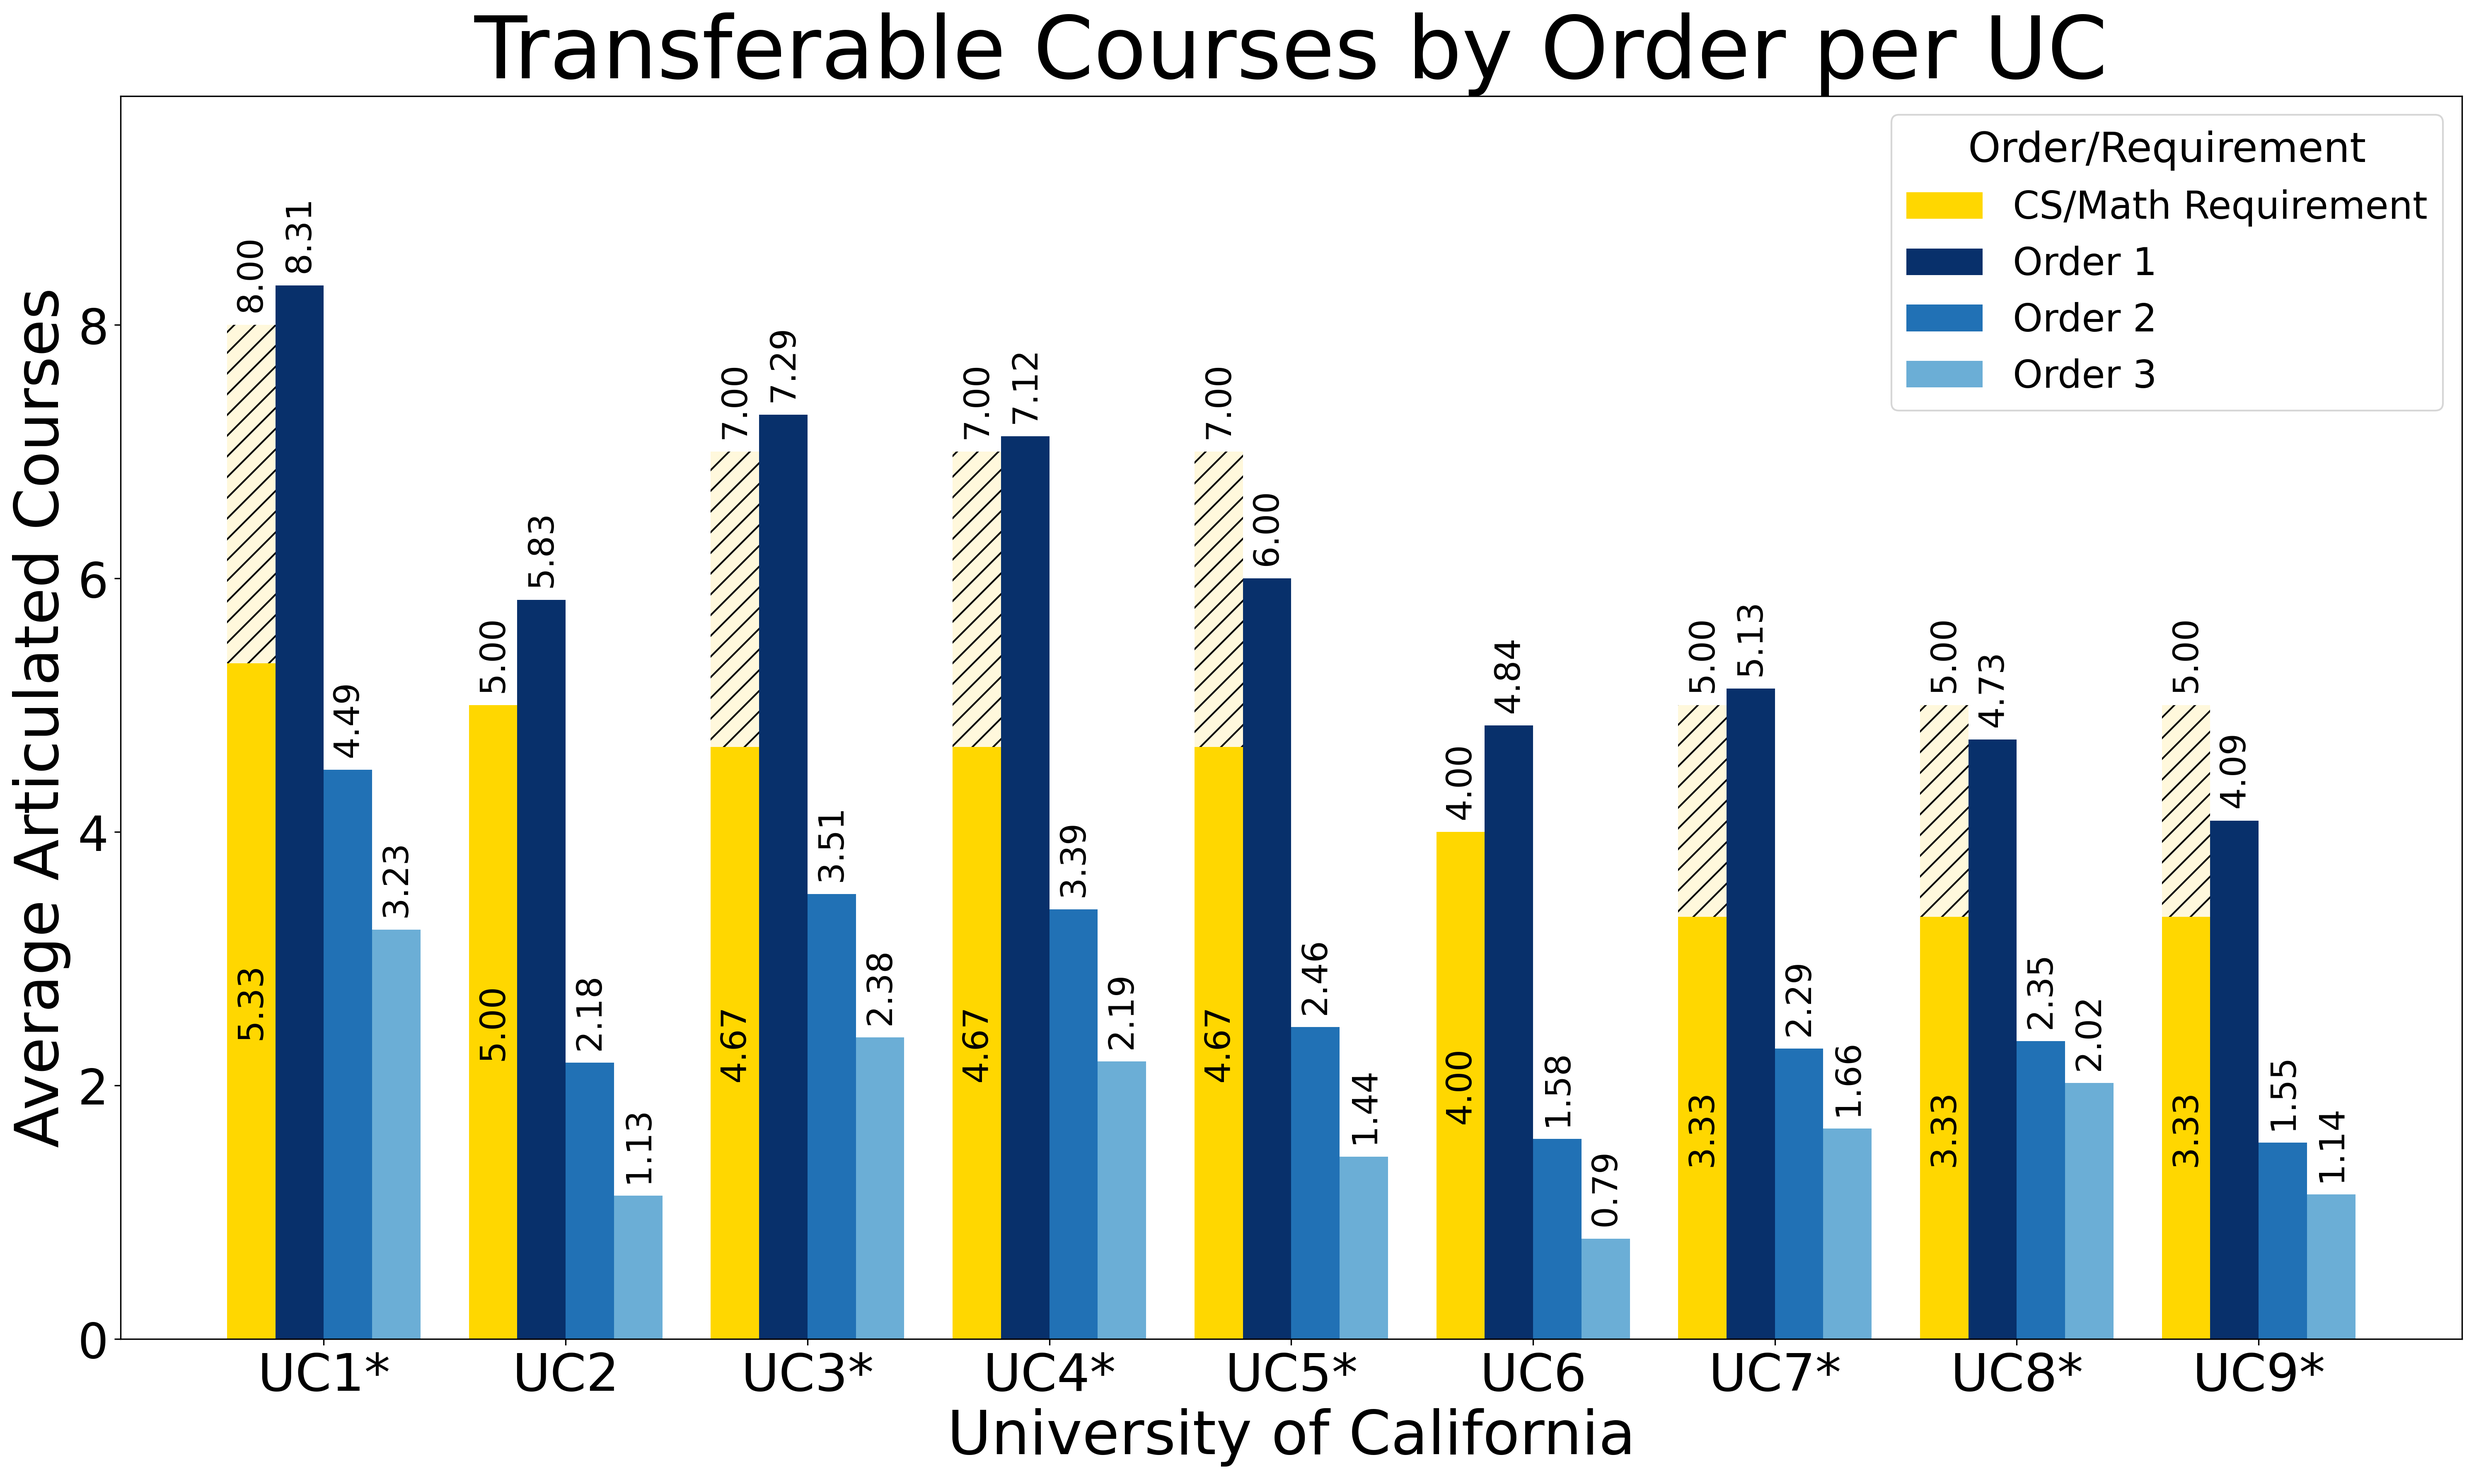
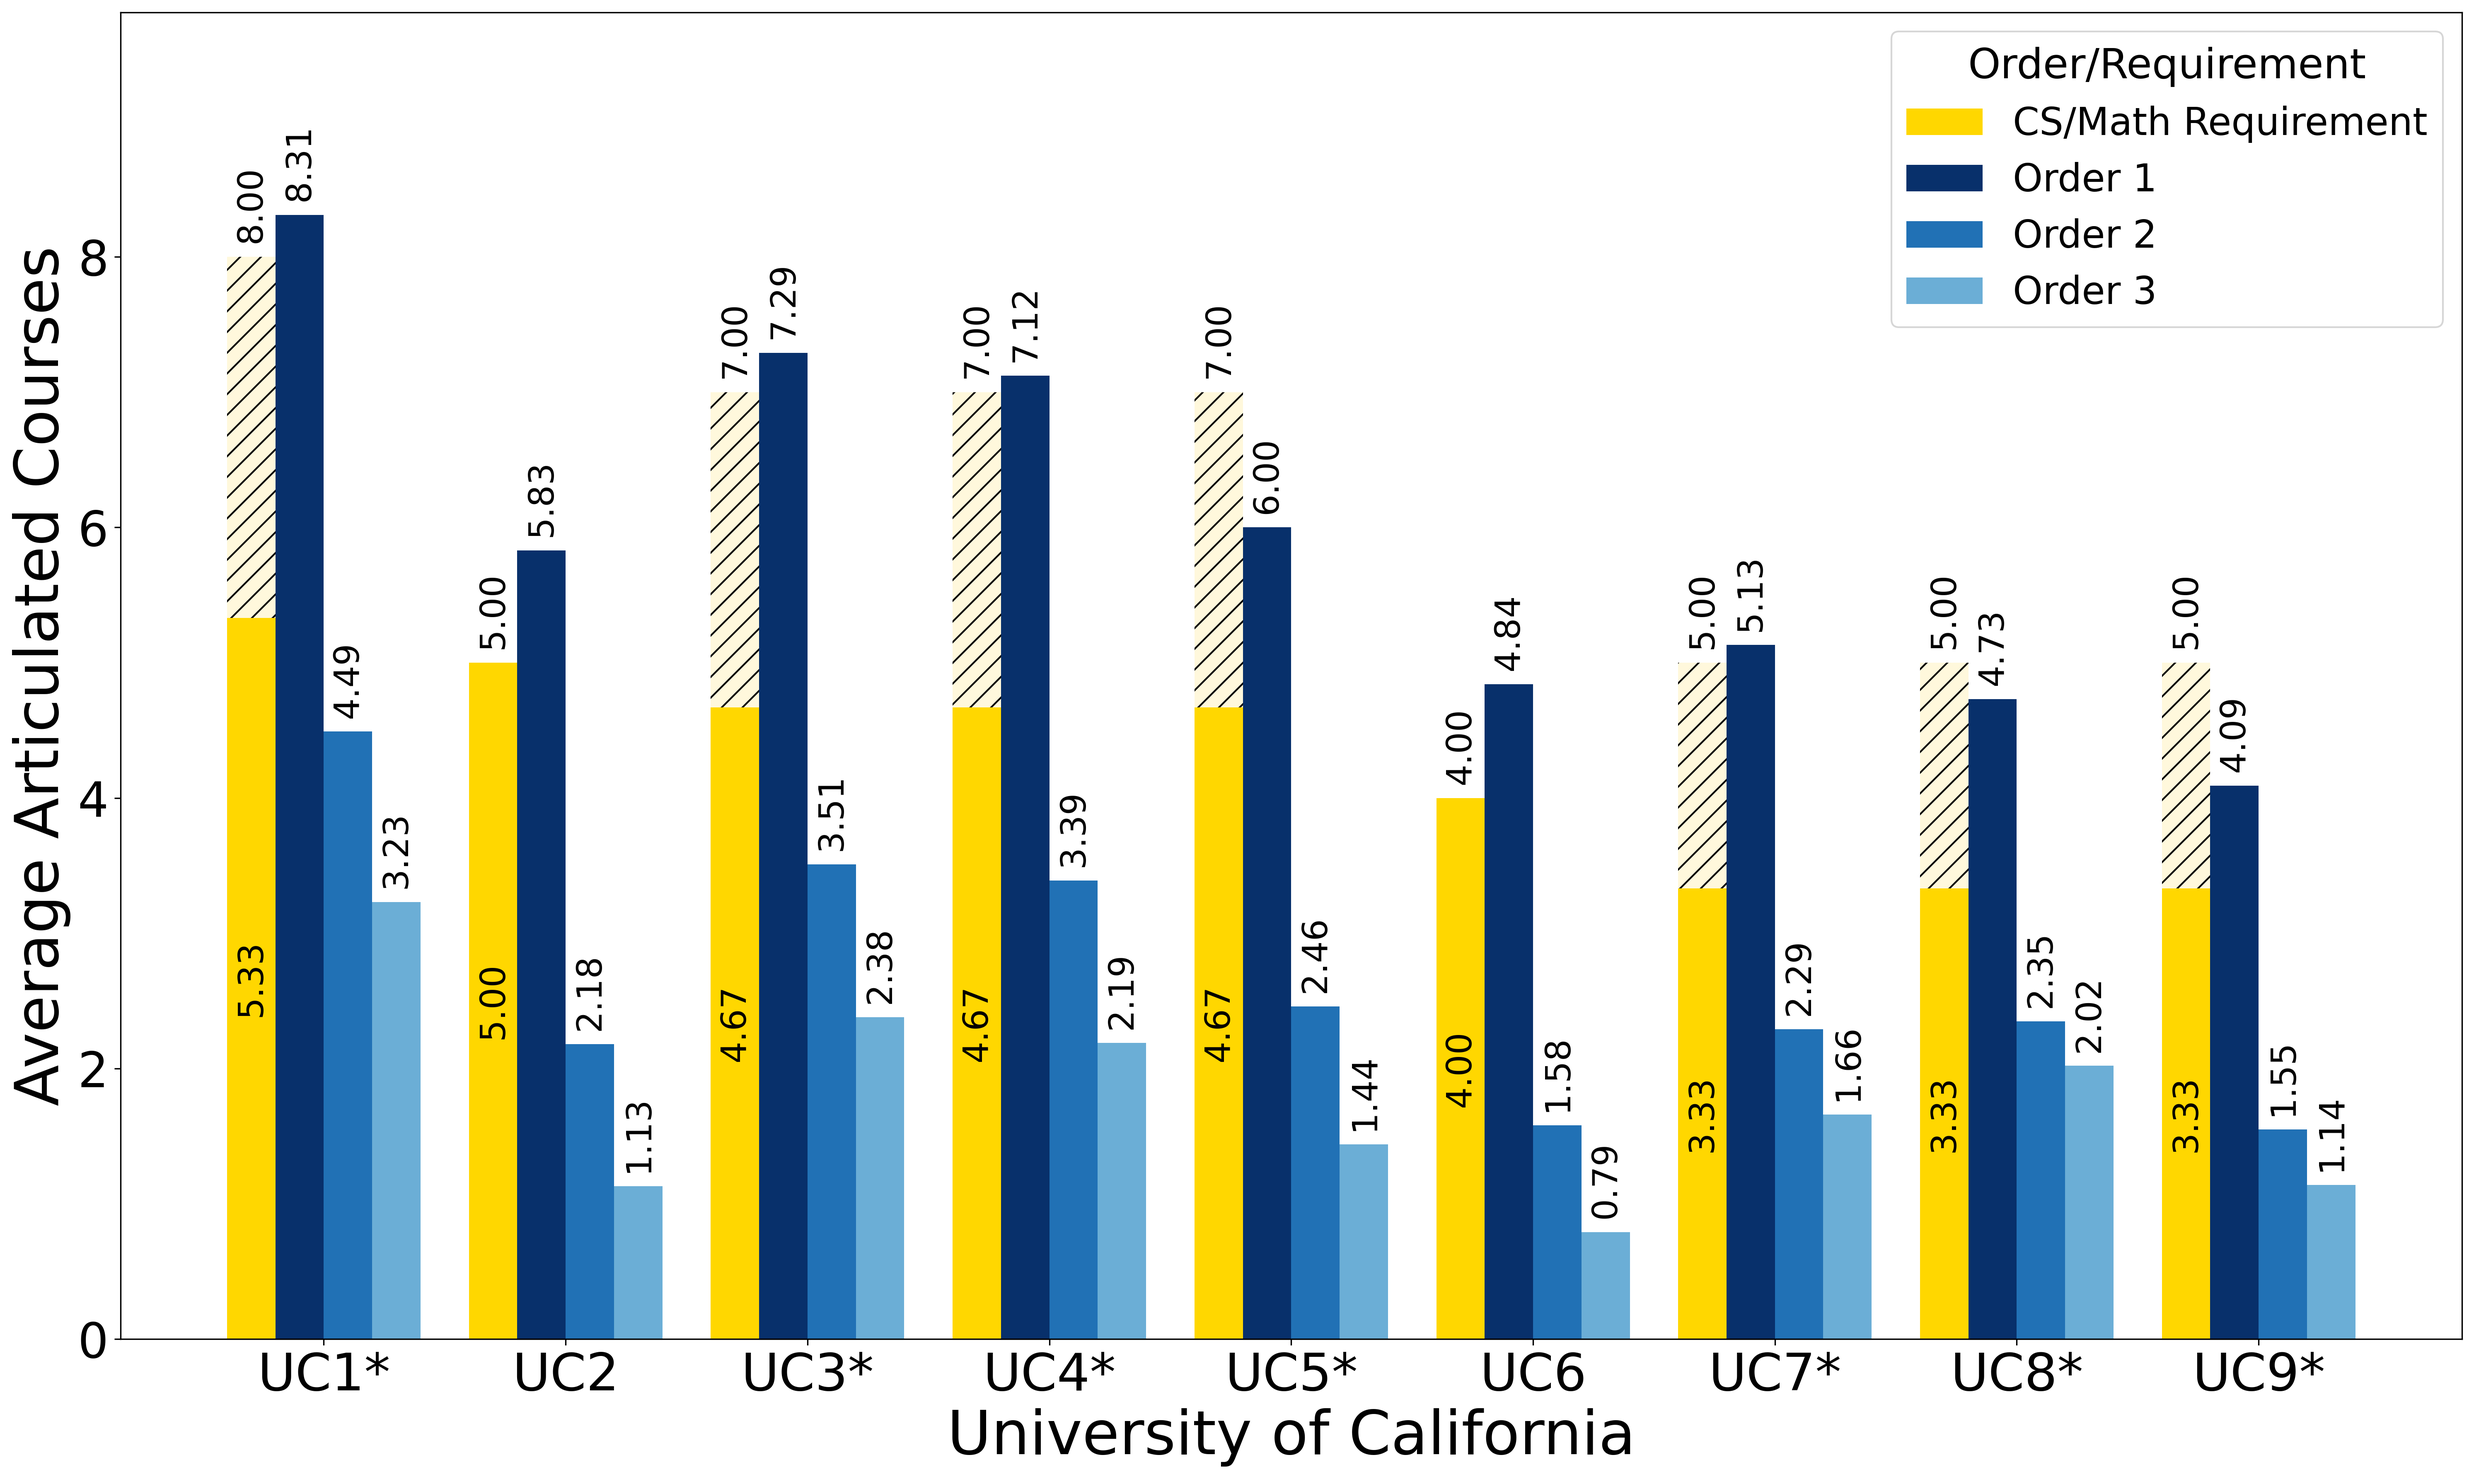
took title off figures

diff --git a/question_1/scripts/scripts_for_graphs/grouped_bar_graph.py b/question_1/scripts/scripts_for_graphs/grouped_bar_graph.py
@@ -206,7 +206,7 @@ else:
     used = [pretty[p] for p in sorted(source_types)]
     source_str = " & ".join(used)
 plot_title = f"Transferable Courses by Order per UC"
-plt.title(plot_title, fontsize=50)
+#plt.title(plot_title, fontsize=50)
 plt.ylabel("Average Articulated Courses", fontsize=35)
 plt.xlabel("University of California", fontsize=35)
 plt.tight_layout()
